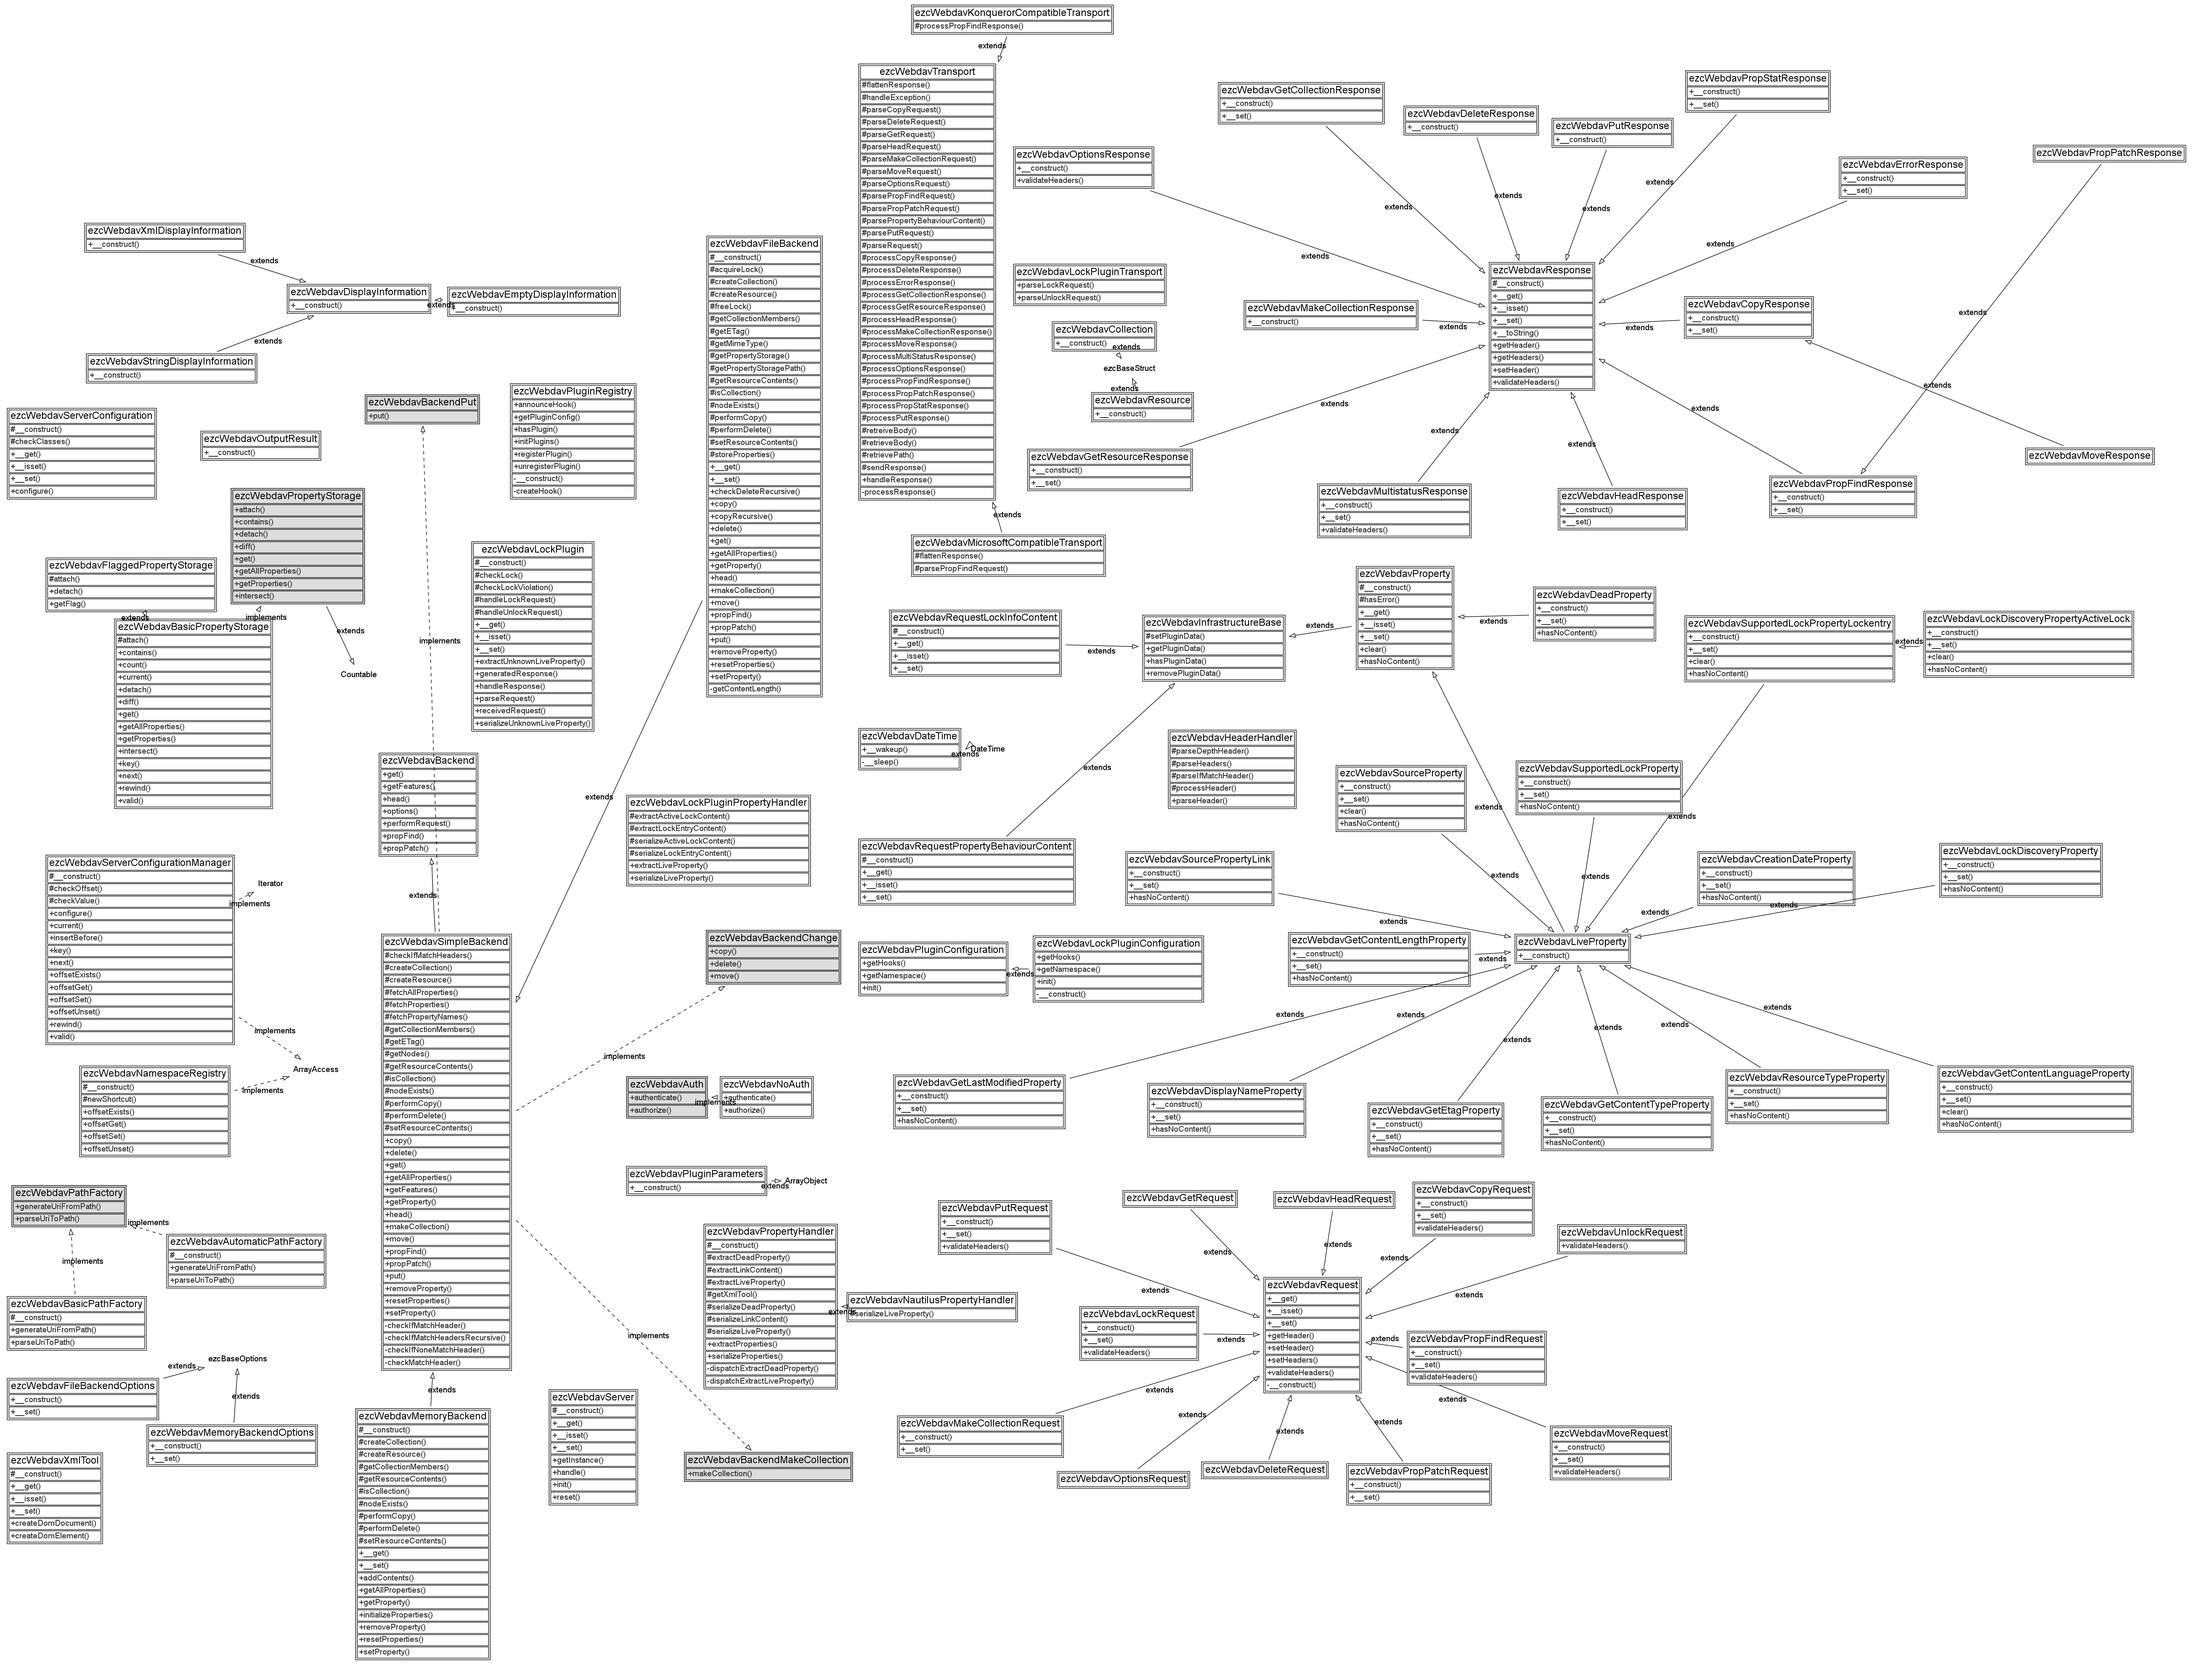
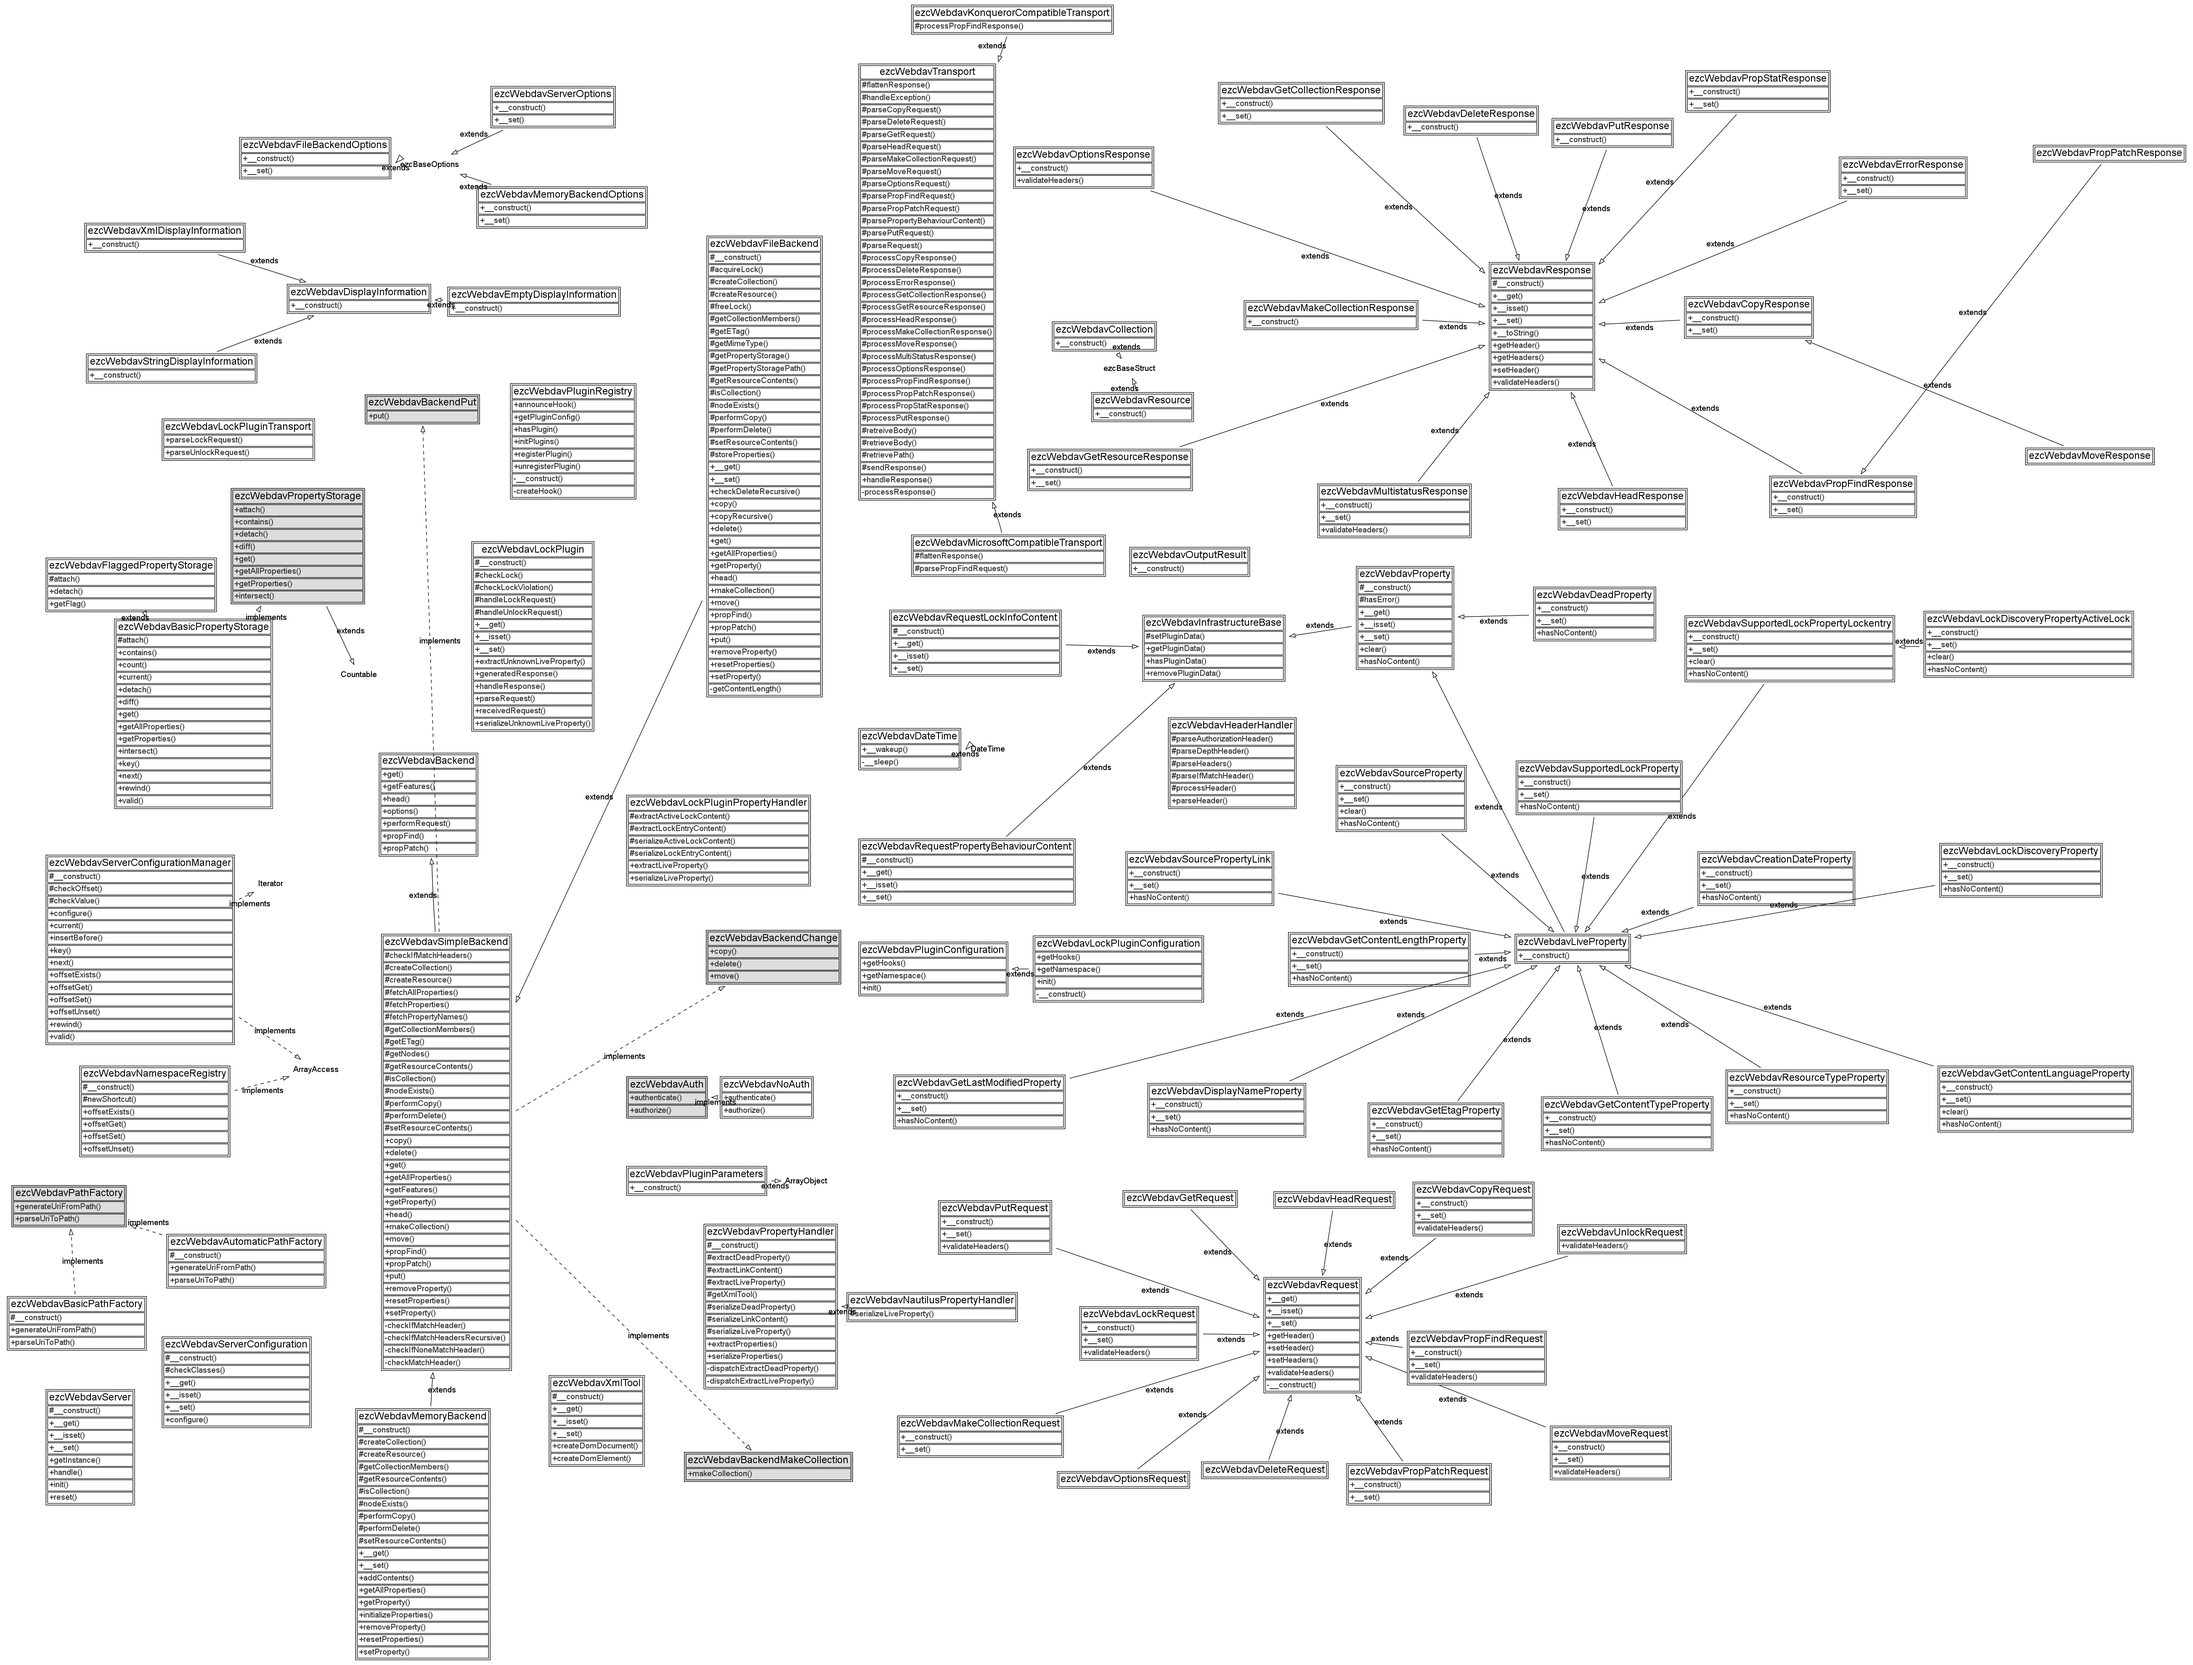
- Added ezcWebdavServerOptions class.
git-svn-id: http://svn.ez.no/svn/ezcomponents/trunk@8759 bc0e7bdc-f0fc-0310-8ff6-f601c06e1256

diff --git a/Webdav/src/options/server.php b/Webdav/src/options/server.php
@@ -1,0 +1,70 @@
+<?php
+/**
+ * File containing the ezcWebdavServerOptions class.
+ *
+ * @package Webdav
+ * @version //autogen//
+ * @copyright Copyright (C) 2005-2008 eZ systems as. All rights reserved.
+ * @license http://ez.no/licenses/new_bsd New BSD License
+ */
+
+/**
+ * Options class for ezcWebdavServer.
+ *
+ * These options are used in the {@link ezcWebdavServer} instance.
+ *
+ * @property string $realm
+ *           The realm that is used in WWW-Authorization headers. The default
+ *           is "eZ Components WebDAV".
+ *
+ * @package Webdav
+ * @version //autogen//
+ */
+class ezcWebdavServerOptions extends ezcBaseOptions
+{
+    /**
+     * Constructs a new options objet with the given $options;
+     *
+     * @throws ezcBasePropertyNotFoundException
+     *         if $options contains a property not defined
+     * @throws ezcBaseValueException
+     *         if $options contains a property with a value not allowed
+     * @param array(string=>mixed) $options
+     */
+    public function __construct( array $options = array() )
+    {
+        $this->properties['realm'] = 'eZ Components WebDAV';
+
+        parent::__construct( $options );
+    }
+
+    /**
+     * Sets the option $name to $value.
+     *
+     * @throws ezcBasePropertyNotFoundException
+     *         if the property $name is not defined
+     * @throws ezcBaseValueException
+     *         if $value is not correct for the property $name
+     * @param string $name
+     * @param mixed $value
+     * @return void
+     * @ignore
+     */
+    public function __set( $name, $value )
+    {
+        switch ( $name )
+        {
+            case 'realm':
+                if ( !is_string( $value ) )
+                {
+                    throw new ezcBaseValueException( $name, $value, 'string' );
+                }
+                break;
+            default:
+                throw new ezcBasePropertyNotFoundException( $name );
+        }
+        $this->properties[$name] = $value;
+    }
+}
+
+?>

diff --git a/Webdav/tests/server_options_test.php b/Webdav/tests/server_options_test.php
@@ -1,0 +1,64 @@
+<?php
+/**
+ * File containing the ezcWebdavFileBackendOptionsTestCase class.
+ * 
+ * @package Webdav
+ * @version //autogen//
+ * @copyright Copyright (C) 2005-2008 eZ systems as. All rights reserved.
+ * @license http://ez.no/licenses/new_bsd New BSD License
+ * @subpackage Test
+ */
+
+require_once dirname( __FILE__ ) . '/property_test.php';
+
+/**
+ * Test case for the ezcWebdavFileBackendOptions class.
+ * 
+ * @package Webdav
+ * @version //autogen//
+ * @subpackage Test
+ */
+class ezcWebdavServerOptionsTest extends ezcWebdavPropertyTestCase
+{
+    public static function suite()
+    {
+		return new PHPUnit_Framework_TestSuite( __CLASS__ );
+    }
+
+    protected function setUp()
+    {
+        $this->className = 'ezcWebdavServerOptions';
+        $this->defaultValues = array(
+            'realm' => 'eZ Components WebDAV',
+        );
+        $this->workingValues = array(
+            'realm' => array(
+                'Some nice realm.',
+                '    ',
+                '23',
+                ''
+            ),
+        );
+        $this->failingValues = array(
+            'realm' => array(
+                null,
+                true,
+                false,
+                23,
+                -42.23,
+                array(),
+                new stdClass(),
+            ),
+        );
+    }
+
+    public function testCtorSuccess()
+    {
+        $class = new ReflectionClass( $this->className );
+        $object = $class->newInstance();
+
+        $this->assertPropertyValues( $object, $this->defaultValues );
+    }
+}
+
+?>

diff --git a/Webdav/src/webdav_autoload.php b/Webdav/src/webdav_autoload.php
@@ -109,6 +109,7 @@ return array(
     'ezcWebdavServer'                                 => 'Webdav/server.php',
     'ezcWebdavServerConfiguration'                    => 'Webdav/server_configuration.php',
     'ezcWebdavServerConfigurationManager'             => 'Webdav/server_configuration_manager.php',
+    'ezcWebdavServerOptions'                          => 'Webdav/options/server.php',
     'ezcWebdavSourceProperty'                         => 'Webdav/properties/source.php',
     'ezcWebdavSourcePropertyLink'                     => 'Webdav/properties/source_link.php',
     'ezcWebdavStringDisplayInformation'               => 'Webdav/structs/display_information_string.php',

diff --git a/Webdav/tests/suite.php b/Webdav/tests/suite.php
@@ -58,6 +58,7 @@ require_once 'response_test.php';
 require_once 'server_test.php';
 require_once 'server_configuration_test.php';
 require_once 'server_configuration_manager_test.php';
+require_once 'server_options_test.php';
 
 require_once 'auth_no_test.php';
 
@@ -91,6 +92,7 @@ class ezcWebdavSuite extends PHPUnit_Framework_TestSuite
         $this->setName( 'Webdav' );
 
         $this->addTest( ezcWebdavBasicServerTest::suite() );
+        $this->addTest( ezcWebdavServerOptionsTest::suite() );
         
         $this->addTest( ezcWebdavHeaderHandlerTest::suite() );
         $this->addTest( ezcWebdavTransportTest::suite() );
